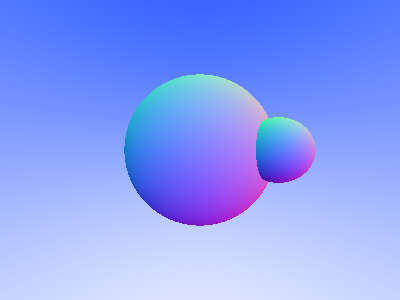
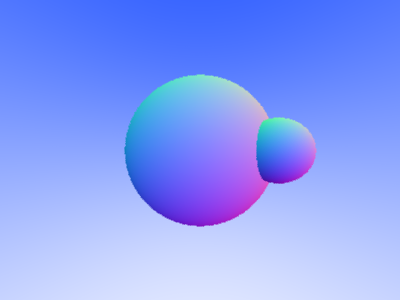
Added antialiasing

diff --git a/src/image.cpp b/src/image.cpp
@@ -4,8 +4,11 @@
 #include "image.h"
 #include "vec3.h"
 #include "sphere.h"
+#include "random.h"
 
 #define MAX_COLOR 255
+
+#define SAMPLES_PER_PIXEL 20
 
 Image::Image(const std::string &filename, Tracer *tracer, Viewport *view) : 
         filename(filename), tracer(tracer), view(view), width(view->screen_width), height(view->screen_height) {}
@@ -36,8 +39,15 @@ bool Image::render() const
 
         for (int x = 0; x < width; x++)
         {
-            Ray ray = view->get_ray(x, y);
-            Color color = tracer->calc_color(ray);
+            Color color; // Start with (0, 0, 0) and accumulate samples
+            for (int s = 0; s < SAMPLES_PER_PIXEL; s++)
+            {
+                double offset_h = Random::get_rand(-0.5, 0.5);
+                double offset_v = Random::get_rand(-0.5, 0.5);
+                Ray ray = view->get_ray(x + offset_h, y + offset_v);
+                color += tracer->calc_color(ray);
+            }
+            color /= SAMPLES_PER_PIXEL; // Average samples
             out << (color * MAX_COLOR).round() << std::endl;
         }
     }

diff --git a/src/random.cpp b/src/random.cpp
@@ -1,0 +1,17 @@
+#include <cstdlib>
+#include "random.h"
+
+double Random::get_rand()
+{
+    double result;
+    do
+    {
+        result = double(std::rand()) / RAND_MAX;
+    } while (result >= 1);
+    return result;
+}
+
+double Random::get_rand(double min_val, double max_val)
+{
+    return (Random::get_rand() * (max_val - min_val)) + min_val;
+}

diff --git a/src/random.h b/src/random.h
@@ -1,0 +1,14 @@
+#ifndef _RANDOM_H_
+#define _RANDOM_H_
+
+class Random
+{
+    public:
+        // Returns a random number in [0, 1)
+        static double get_rand();
+
+        // Returns a random number in [min_val, max_val)
+        static double get_rand(double min_val, double max_val);
+};
+
+#endif // _RANDOM_H_

diff --git a/src/main.cpp b/src/main.cpp
@@ -12,6 +12,7 @@ int main(int argc, char **argv)
     Tracer tracer;
     Viewport view(SCREEN_WIDTH);
     Image image("orot.ppm", &tracer, &view);
+
     bool result = image.render();
     return result ? 0 : 1;
 }

diff --git a/README.md b/README.md
@@ -1,5 +1,5 @@
 # ray-trc
-Ray tracer built over several weekends
+Ray tracer built over several weekends.
 
 ### Current progress
 ![Progress thus far](https://raw.githubusercontent.com/CptnClaw/ray-trc/master/orot.png)
